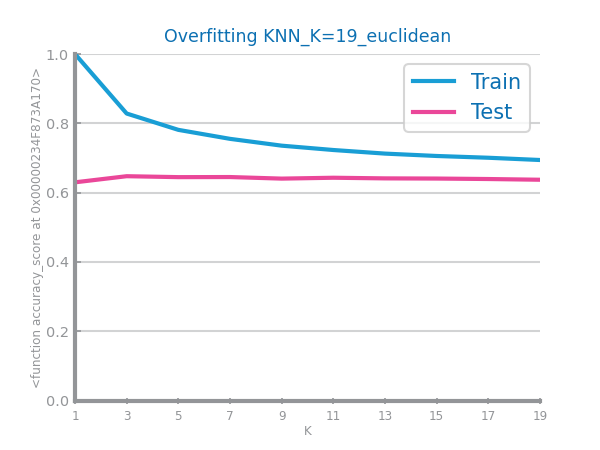
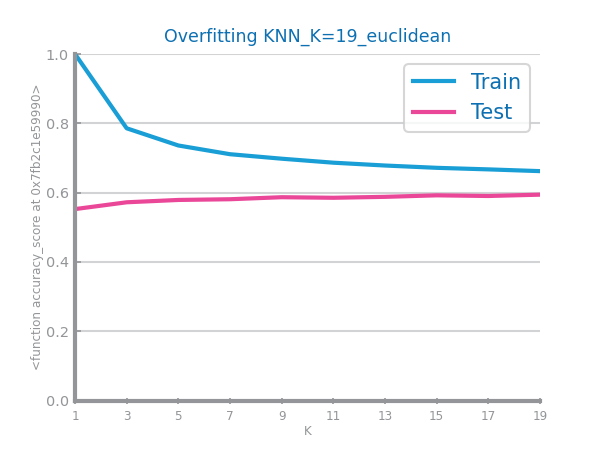
Update knn and nb codes and run for dataset2

Changed region(s): [[0.12, 0.1244, 0.9, 0.4667], [0.03, 0.3733, 0.09, 0.84], [0.03, 0.1556, 0.09, 0.3422]]

diff --git a/knn_dataset2.py b/knn_dataset2.py
@@ -7,7 +7,11 @@ from sklearn.metrics import accuracy_score
 
 
 def knn_variants(file_tag, filename, target, dataset, method):
-    train: DataFrame = read_csv(f'{filename}_train.csv')
+    #Running over unbalanced
+    # train: DataFrame = read_csv(f'{filename}_train.csv')
+
+    #Running over balanced
+    train: DataFrame = read_csv(f'{filename}_train_oversampling.csv')
     trnY: ndarray = train.pop(target).values
     trnX: ndarray = train.values
     labels = unique(trnY)
@@ -38,7 +42,7 @@ def knn_variants(file_tag, filename, target, dataset, method):
     figure()
     multiple_line_chart(nvalues, values, title='KNN variants', xlabel='n', ylabel=str(accuracy_score), percentage=True)
     image_location = 'images/knn/' + dataset
-    savefig(image_location+'/'+method+'_'+file_tag+'_knn_study.png')
+    savefig(image_location+'/'+file_tag+'_knn_study.png')
     #show()
     print('Best results with %d neighbors and %s'%(best[0], best[1]))
 
@@ -48,7 +52,7 @@ def knn_variants(file_tag, filename, target, dataset, method):
     prd_trn = clf.predict(trnX)
     prd_tst = clf.predict(tstX)
     plot_evaluation_results(labels, trnY, prd_trn, tstY, prd_tst)
-    savefig(image_location+'/'+method+'_'+file_tag+'_knn_best.png')
+    savefig(image_location+'/'+file_tag+'_knn_best.png')
     #show()
 
     #Overfitting
@@ -71,12 +75,16 @@ def plot_overfitting_study(dataset, method, xvalues, prd_trn, prd_tst, name, xla
     figure()
     multiple_line_chart(xvalues, evals, ax = None, title=f'Overfitting {name}', xlabel=xlabel, ylabel=ylabel, percentage=True)
     image_location = 'images/knn/' + dataset
-    savefig(image_location+'/overfitting_'+name+'_'+method+'.png')
+    savefig(image_location+'/'+dataset+'_'+method+'_overfitting_'+name+'.png')
 
 
 #Last Paramenter correspond to MVI or scaling (Lab2 --> First part is MVI and Second part --> Scaling)
 #knn_variants('diabetes', 'data/classification/datasets_for_further_analysis/dataset1/minmax_diabetes', 'readmitted', 'dataset1', 'minmax_scaling')
-knn_variants('diabetes', 'data/classification/datasets_for_further_analysis/dataset1/zscore_diabetes', 'readmitted', 'dataset1', 'zscore_scaling')
+# knn_variants('diabetes', 'data/classification/datasets_for_further_analysis/dataset1/zscore_diabetes', 'readmitted', 'dataset1', 'zscore_scaling')
 
-#knn_variants('drought', 'data/classification/datasets_for_further_analysis/dataset2/minmax_drought', 'class', 'dataset2', 'minmax_scaling')
-#knn_variants('drought', 'data/classification/datasets_for_further_analysis/dataset2/zscore_drought', 'class', 'dataset2', 'zscore_scaling')
+# knn_variants('dataset2_minmax', 'data/classification/datasets_for_further_analysis/dataset2/dataset2_minmax', 'class', 'dataset2', 'minmax')
+knn_variants('dataset2_minmax_balanced', 'data/classification/datasets_for_further_analysis/dataset2/dataset2_minmax', 'class', 'dataset2', 'minmax_balanced')
+
+#Running over balanced
+#knn_variants('dataset2_minmax', 'data/classification/datasets_for_further_analysis/dataset2/dataset2_minmax_train_oversampling', 'class', 'dataset2', 'minmax')
+#knn_variants('dataset2_minmax', 'data/classification/datasets_for_further_analysis/dataset2/dataset2_zscore_train_oversampling', 'class', 'dataset2', 'zscore')

diff --git a/nb_dataset2.py b/nb_dataset2.py
@@ -1,0 +1,58 @@
+from numpy import ndarray
+from pandas import DataFrame, read_csv, unique
+from matplotlib.pyplot import figure, savefig, show
+from sklearn.naive_bayes import GaussianNB
+from dscharts import plot_evaluation_results, bar_chart
+from sklearn.naive_bayes import GaussianNB, MultinomialNB, BernoulliNB, CategoricalNB
+from sklearn.metrics import accuracy_score
+
+def nb_variants(file_tag, filename, target, dataset, method):
+    file_tag = file_tag
+    filename = filename
+    target = target
+
+    # train: DataFrame = read_csv(f'{filename}_train.csv')
+    train: DataFrame = read_csv(f'{filename}_train_oversampling.csv')
+    trnY: ndarray = train.pop(target).values
+    trnX: ndarray = train.values
+    labels = unique(trnY)
+    labels.sort()
+
+    test: DataFrame = read_csv(f'{filename}_test.csv')
+    tstY: ndarray = test.pop(target).values
+    tstX: ndarray = test.values
+
+    clf = GaussianNB()
+    clf.fit(trnX, trnY)
+    prd_trn = clf.predict(trnX)
+    prd_tst = clf.predict(tstX)
+    plot_evaluation_results(labels, trnY, prd_trn, tstY, prd_tst)
+    image_location = 'images/nb/' + dataset
+    savefig(image_location+'/'+file_tag+'_nb_best.png')
+    show()
+
+    estimators = {'GaussianNB': GaussianNB(),
+              # 'MultinomialNB': MultinomialNB(),
+              'BernoulliNB': BernoulliNB()
+              #'CategoricalNB': CategoricalNB
+              }
+
+    xvalues = []
+    yvalues = []
+    for clf in estimators:
+        xvalues.append(clf)
+        estimators[clf].fit(trnX, trnY)
+        prdY = estimators[clf].predict(tstX)
+        yvalues.append(accuracy_score(tstY, prdY))
+
+    figure()
+    bar_chart(xvalues, yvalues, title='Comparison of Naive Bayes Models', ylabel='accuracy', percentage=True)
+    savefig(image_location+'/'+file_tag+'_nb_study.png')
+    #how()
+
+
+# nb_variants('dataset2_minmax', 'data/classification/datasets_for_further_analysis/dataset2/dataset2_minmax', 'class', 'dataset2', 'minmax')
+# nb_variants('dataset2_minmax_balanced', 'data/classification/datasets_for_further_analysis/dataset2/dataset2_minmax', 'class', 'dataset2', 'minmax_balanced')
+
+# nb_variants('dataset2_zscore', 'data/classification/datasets_for_further_analysis/dataset2/dataset2_zscore', 'class', 'dataset2', 'zscore')
+nb_variants('dataset2_zscore_balanced', 'data/classification/datasets_for_further_analysis/dataset2/dataset2_zscore', 'class', 'dataset2', 'zscore_balanced')

diff --git a/data_balancing_dataset2.py b/data_balancing_dataset2.py
@@ -22,9 +22,9 @@ def data_balancing(filename, file, dataset, index_col, class_col, na_values, ):
     savefig(f'images/data_balancing/dataset2/{file}_unbalanced.png')
     show()
 
-    undersampling(file, dataset, class_col, original, positive_class, negative_class, values)
+    # undersampling(file, dataset, class_col, original, positive_class, negative_class, values)
     # oversampling(file, dataset, class_col, original, positive_class, negative_class, values)
-    # smote(file, dataset, class_col, original, positive_class, negative_class, values)
+    smote(file, dataset, class_col, original, positive_class, negative_class, values)
 
 
 def undersampling(file, dataset, class_col, original, positive_class, negative_class, values):
@@ -81,4 +81,6 @@ def smote(file, dataset, class_col, original, positive_class, negative_class, va
     show()
 
 # data_balancing('data/classification/datasets_for_further_analysis/dataset2/dataset2_minmax_train.csv', 'dataset2_minmax_train', 'dataset2', 'date', 'class', '')
-data_balancing('data/classification/datasets_for_further_analysis/dataset2/dataset2_zscore_train.csv', 'dataset2_zscore_train', 'dataset2', 'date', 'class', '')
+data_balancing('data/classification/datasets_for_further_analysis/dataset2/dataset2_minmax_test.csv', 'dataset2_minmax_test', 'dataset2', 'date', 'class', '')
+# data_balancing('data/classification/datasets_for_further_analysis/dataset2/dataset2_zscore_train.csv', 'dataset2_zscore_train', 'dataset2', 'date', 'class', '')
+data_balancing('data/classification/datasets_for_further_analysis/dataset2/dataset2_zscore_test.csv', 'dataset2_zscore_test', 'dataset2', 'date', 'class', '')
